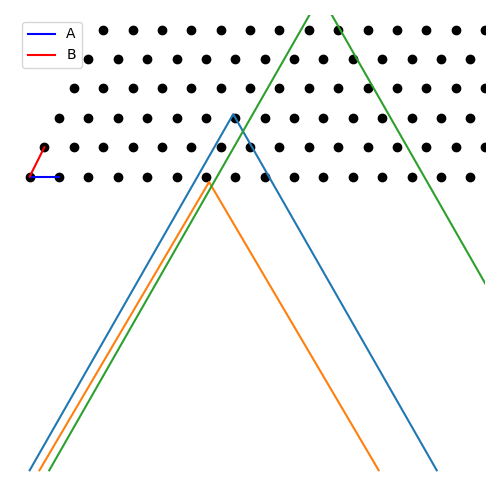
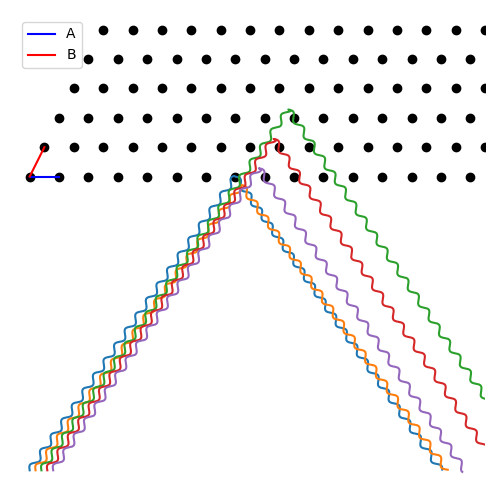
added waves to xray

diff --git a/PyCrystallography/xray_diffraction.py b/PyCrystallography/xray_diffraction.py
@@ -214,12 +214,12 @@ canvas_size = 16
 # ################################
 
 # angle fro surface norm (degrees)
-theta = 60
+theta = 55
 
 
 # number of particles being fired
 # - can not be zero, min = 1
-num_of_particles = 3
+num_of_particles = 5
 
 # x distance incomving particles are distribued across
 # - can not be zero, min = 1
@@ -229,4 +229,4 @@ spread = 1
 # # execution
 # ################################################################
 
-run_simulation(num_of_particles,theta,spread,lattice_shape='square')
+run_simulation(num_of_particles,theta,spread,lattice_shape='rhombus')
